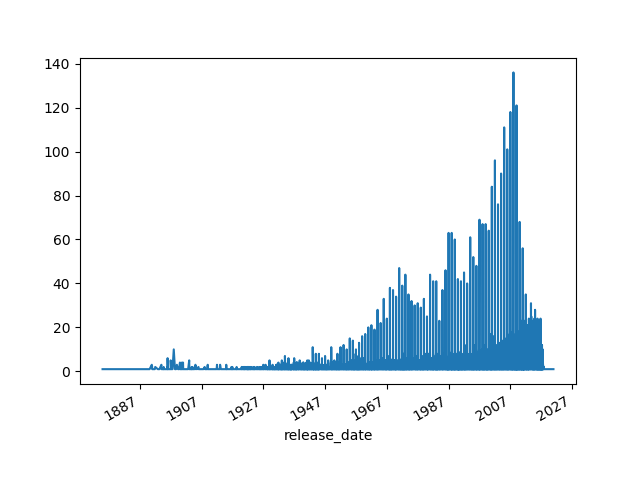
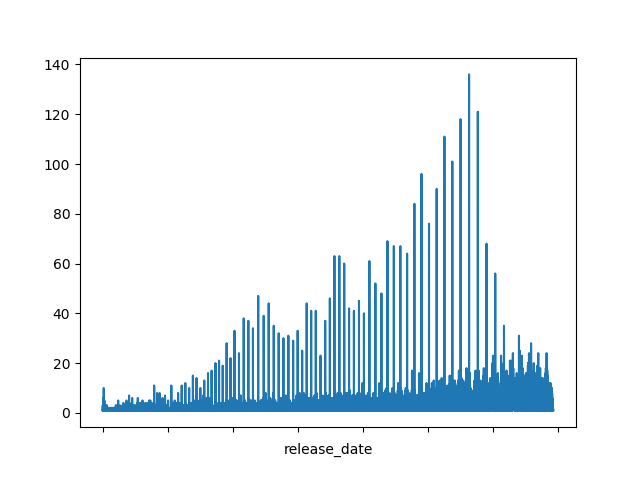
Vi plotter non-adult movies.

diff --git a/plot_adult_movies.py b/plot_adult_movies.py
@@ -1,10 +1,11 @@
 import pandas as pd
 import numpy as np
 import matplotlib.pyplot as plt
+import matplotlib
 
 
 def plotting_adult_and_non_adult_movies(data):
-        
+
     # Boolean selection
     # Returns a boolean series
     filter_true_values = data['adult'] == 'True'
@@ -24,12 +25,14 @@ def plotting_adult_and_non_adult_movies(data):
     # print(false_values)
 
     # Convert strings to Date for adult movies
-    true_values.loc['release_date'] = pd.to_datetime(true_values['release_date'], errors='coerce').copy()
+    true_values.loc['release_date'] = pd.to_datetime(
+        true_values['release_date'], errors='coerce').copy()
     # print(true_values.info())
     # print(true_values['release_date'])
 
     # Convert strings to Date for non-adult movies
-    false_values.loc['release_date'] = pd.to_datetime(false_values['release_date'], errors='coerce').copy()
+    false_values.loc['release_date'] = pd.to_datetime(
+        false_values['release_date'], errors='coerce').copy()
     # print(false_values.info())
     # print(false_values['release_date'])
 
@@ -41,21 +44,15 @@ def plotting_adult_and_non_adult_movies(data):
     # print(true_values_count_dates)
 
     false_values_count_dates = false_values.groupby('release_date').size()
-    #print(false_values_count_dates)
+    # print(false_values_count_dates)
 
-    # plot_file = 'movies_per_year.png'
+    plot_file = 'movies_per_year.png'
 
-    # plt.figure()
+    false_values_count_dates.plot()
 
-    # plt.figure()
-    # true_values_count_dates.plot()
+    plt.show()
 
-    #plt.plot(true_values_count_dates, marker='o', linestyle='--', color='r', label='Adult movies')
-    #plt.plot(false_values_count_dates, marker='*', linestyle='--', color='g', label='Non-adult movies')
+    ax = false_values_count_dates.plot()
+    fig = ax.get_figure()
 
-    # plt.show()
-
-    #ax = count_dates.plot()
-    #fig = ax.get_figure()
-
-    # fig.savefig(plot_file)
+    fig.savefig(plot_file)
